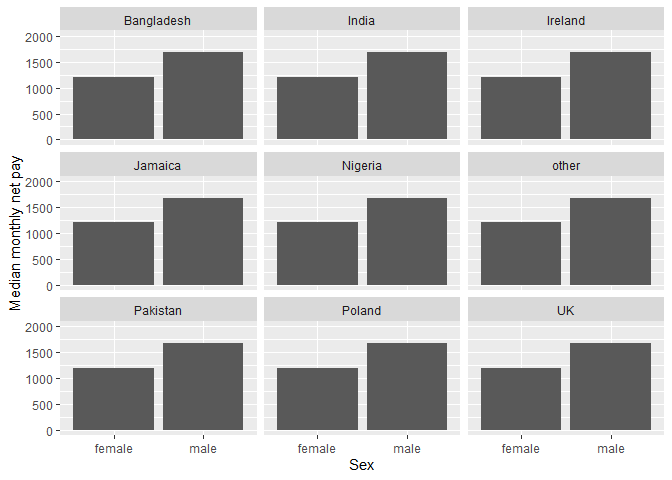
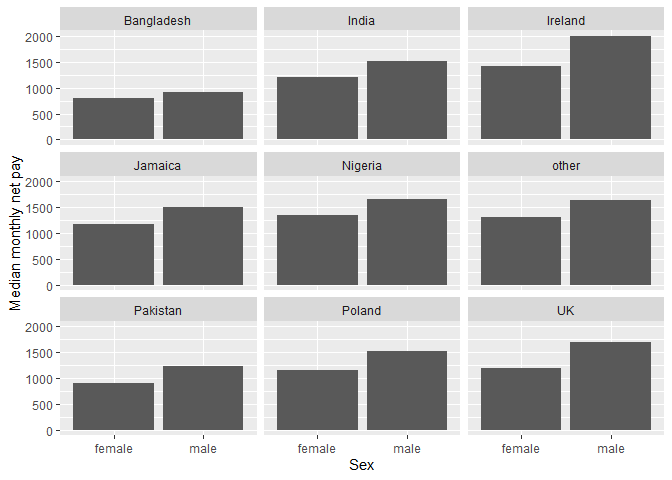
Updated .Rmd files

diff --git a/assignment4.md b/assignment4.md
@@ -89,13 +89,13 @@ bracket.
 3.  Faceted bar chart (20 points).
     
     ``` r
-    #DONE
-    Data <- Data %>%
-    group_by(sex_dv) %>%   
-    mutate(medpay = median(h_payn_dv, na.rm = TRUE))
+    Data2 <- Data %>%
+    select(placeBorn, sex_dv, h_payn_dv) %>%
+    group_by(placeBorn, sex_dv) %>%
+    summarise(medpay = median(h_payn_dv, na.rm = TRUE))
     
-    Data %>%
-    drop_na(placeBorn, sex_dv) %>%
+    Data2 %>%
+    drop_na(placeBorn, sex_dv) %>%    
     ggplot(aes(x = sex_dv, y = medpay)) +
         geom_bar(stat = 'identity') +
         facet_wrap( ~ placeBorn) +
@@ -106,20 +106,22 @@ bracket.
     
     ![](assignment4_files/figure-gfm/unnamed-chunk-4-1.png)<!-- -->
 
-There is no significant difference in the gender pay gap across
-different countries of origin. Men have a consistently higher median net
-monthly pay than women, highlighting the global epidemic of sexism in
-the working world.
+Based on this graph, it appears that pay tends to be consisent across
+various countries of origin, with the exception of those coming from
+Bangladesh and India who earn considerably less than those from other
+countries, and Ireland, which has people earning a lot more than even
+than those born in the UK. It should also be noted that the gender pay
+gap is consistent across all groups, meaning gender discrimination is
+not unique to one ethnic group.
 
 4.  Heat map (20 points).
     
     ``` r
-    #ARGH    
-     Data2 <- Data %>% 
+    Data3 <- Data %>% 
     group_by(h_gor_dv, placeBorn) %>%
     mutate(meanage = mean(h_age_dv))
     
-    Data2 %>%
+    Data3 %>%
     drop_na(h_gor_dv, placeBorn) %>%
     ggplot(aes(x = h_gor_dv, y = placeBorn, fill = meanage)) +
     geom_tile(stat = 'identity') +
@@ -143,16 +145,16 @@ oldest average coming from Jamaica and settling in Scotland.
     ``` r
     Data %>%
     ggplot(mapping = aes(x = h_age_dv, fill = sex_dv)) +
-        geom_bar(data=subset(Data, sex_dv == "female"))+
-        geom_bar(data=subset(Data, sex_dv == "male"), aes(y=..count..*(-1)))+
-         coord_flip() +
-        labs(fill="Sex") +
-        xlab("Age") +
-        ylab("n")
+    geom_bar(data=subset(Data, sex_dv == "female")) +
+    geom_bar(data=subset(Data, sex_dv == "male"), aes(y=..count..*(-1)))+
+    coord_flip() +
+    labs(fill="Sex") +
+    xlab("Age") +
+    ylab("n")
     ```
     
     ![](assignment4_files/figure-gfm/unnamed-chunk-6-1.png)<!-- -->
 
-The age of the sample is fairly evenly distributed among men and women.
-There is, however, a marginally greater number of women sampled,
-especially those age 30-50.
+The age of the sample is fairly evenly distributed among men and women,
+demonstrating that the UK is largely middle-aged. It also appears there
+are, on average, more women than men, especially those age 30-50.
